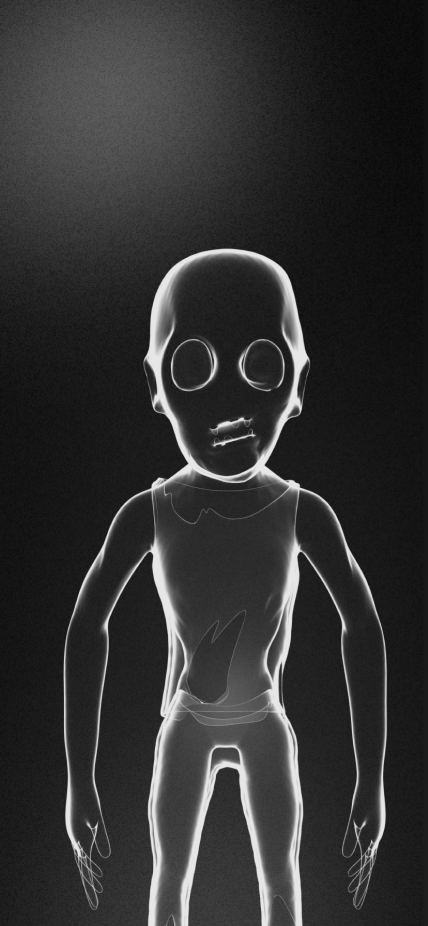
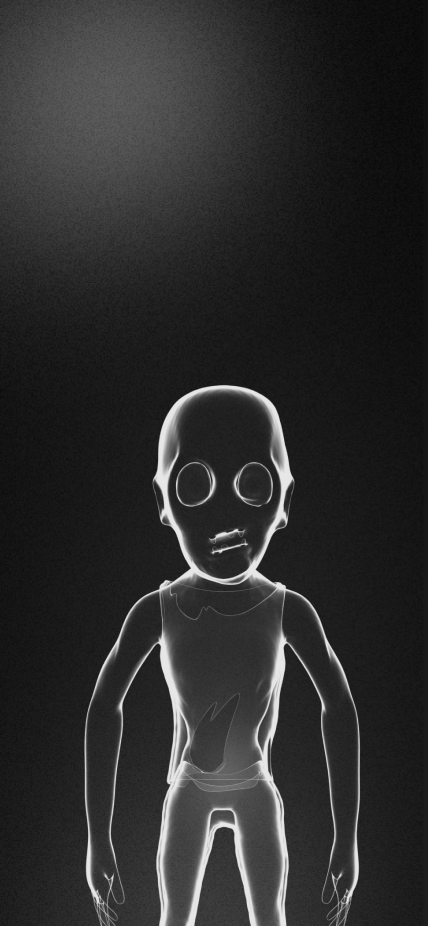
ghost

diff --git a/how-to.html b/how-to.html
@@ -117,7 +117,7 @@ image-overlay-line {
   –––––––––––––––––––––––––––––––––––––––––––––––––– -->
   <div id="sections">
     <div>
-      <img src="images/plain-bkgd.png">
+      <img src="images/ghost-bkgd.png">
       <div id="headline">
         How to Play
       </div>
